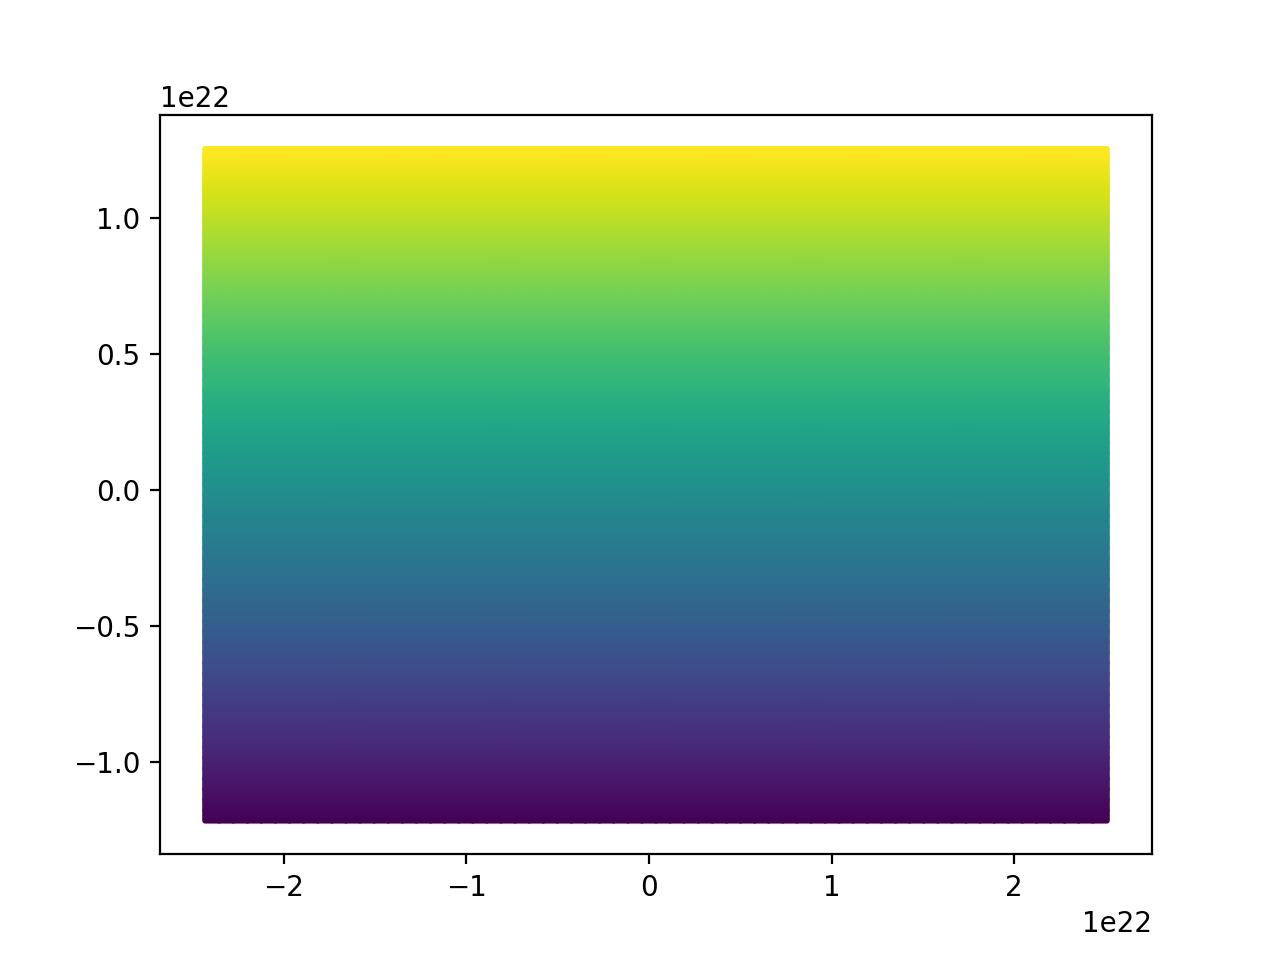
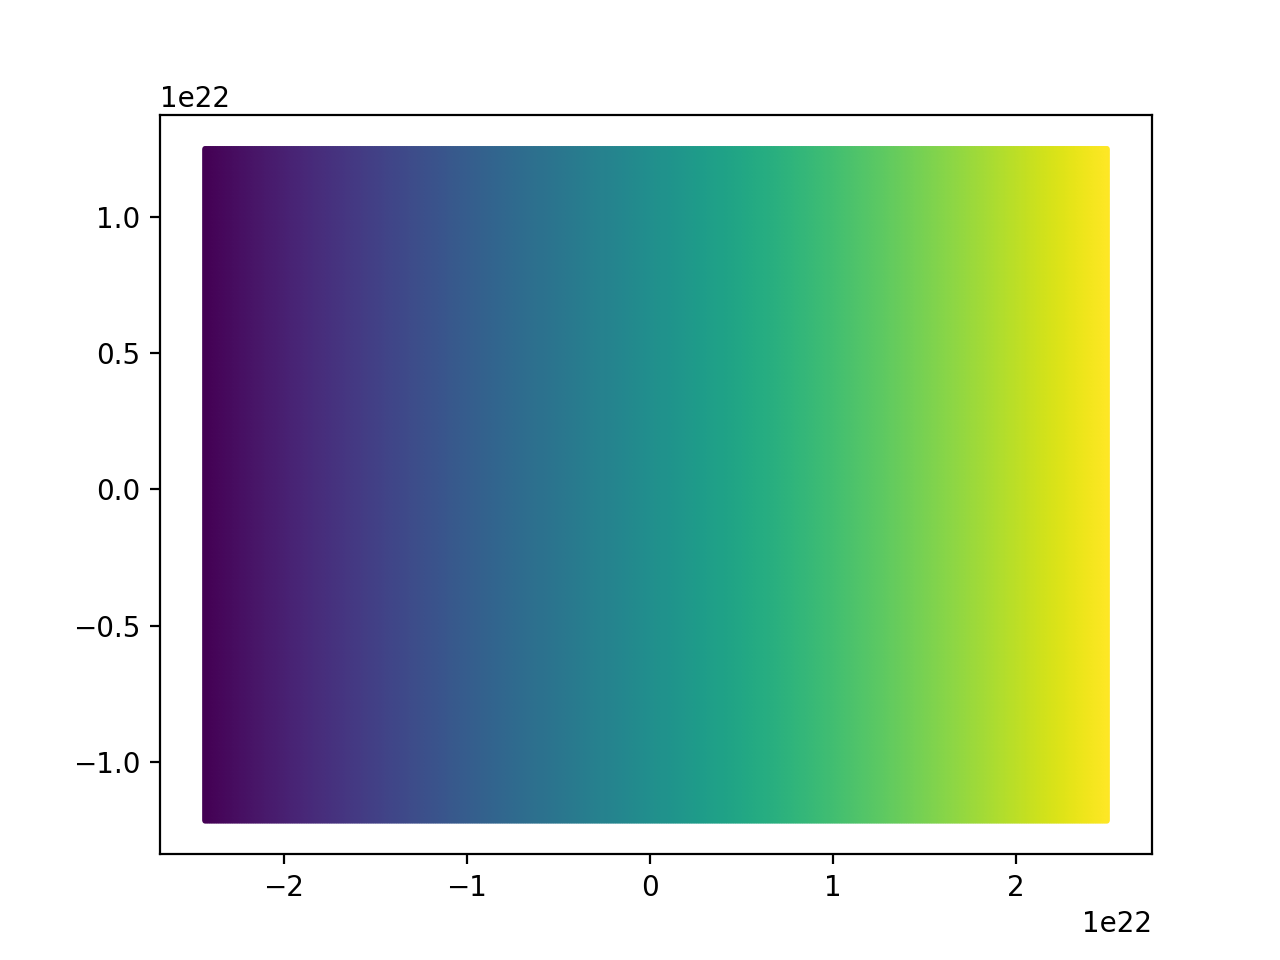
FIXED overlap in coordinate 8x8 spacing

diff --git a/2D_Interpolations_Detections.py b/2D_Interpolations_Detections.py
@@ -33,6 +33,7 @@ import hdf5_parser
 import scipy.interpolate as interp
 
 #%%
+rawhdf = h5py.File(filename, 'r')
 newOut = hdf5_parser.setup(filename, format = "cartesian")
 x = newOut['posXarray'].flatten()
 y = newOut['posYarray'].flatten()
@@ -47,6 +48,34 @@ plt.savefig(pwd + "/Plots/ZcleanB1.png")
 
 #%% interpolate
 
-x = newOut['magXarray'][0]
+#row 0
+row = 200
+x = newOut['posXarray'][0]
+magY = newOut['magYarray'][0]
+Xslice = interp.interp1d(x, magY)
+
 y = newOut['posYarray'][0]
-Xslice = interp.interp1d(newOut['magXarray'][0], newOut['posYarray'][0])
+magX = newOut['magXarray'][0]
+Xslice = interp.interp1d(y, magX)
+
+#%%
+## find zeros
+x = newOut['posXarray']
+Y = newOut['posYarray']
+pow(np.asarray([1, 2, 3]), 2)
+mag = np.sqrt(pow(magX, 2) + pow(magY, 2))
+magInterp = interp.RectBivariateSpline(x, y, mag)
+
+## check neighbors
+
+#%% check increasing/decreasing x, y
+x = newOut['posXarray'][0]
+for index in range(1, len(x)):
+    if(x[index-1] >= x[index]):
+        print("ERROR")
+        print(index-1)
+        print(x[index-1])
+        print(index)
+        print(x[index])
+        break;
+

diff --git a/hdf5_parser.py b/hdf5_parser.py
@@ -161,8 +161,8 @@ def cartesianCoordinates(file):
     posY = [] #list
     #borrow 8x8 from original coordinate setup
     for coord in coordField:
-        tempXlin = np.linspace(coord[0], coord[0] + stepX, 8)
-        tempYlin = np.linspace(coord[1], coord[1] + stepY, 8)
+        tempXlin = np.linspace(coord[0], coord[0] + stepX, 9)[0:8]
+        tempYlin = np.linspace(coord[1], coord[1] + stepY, 9)[0:8]
         tempMeshgrid = np.meshgrid(tempXlin, tempYlin)
         posX.append([tempMeshgrid[0]]) #extra brackets for the 1 in (4096, 1, 8, 8)
         posY.append([tempMeshgrid[1]])
